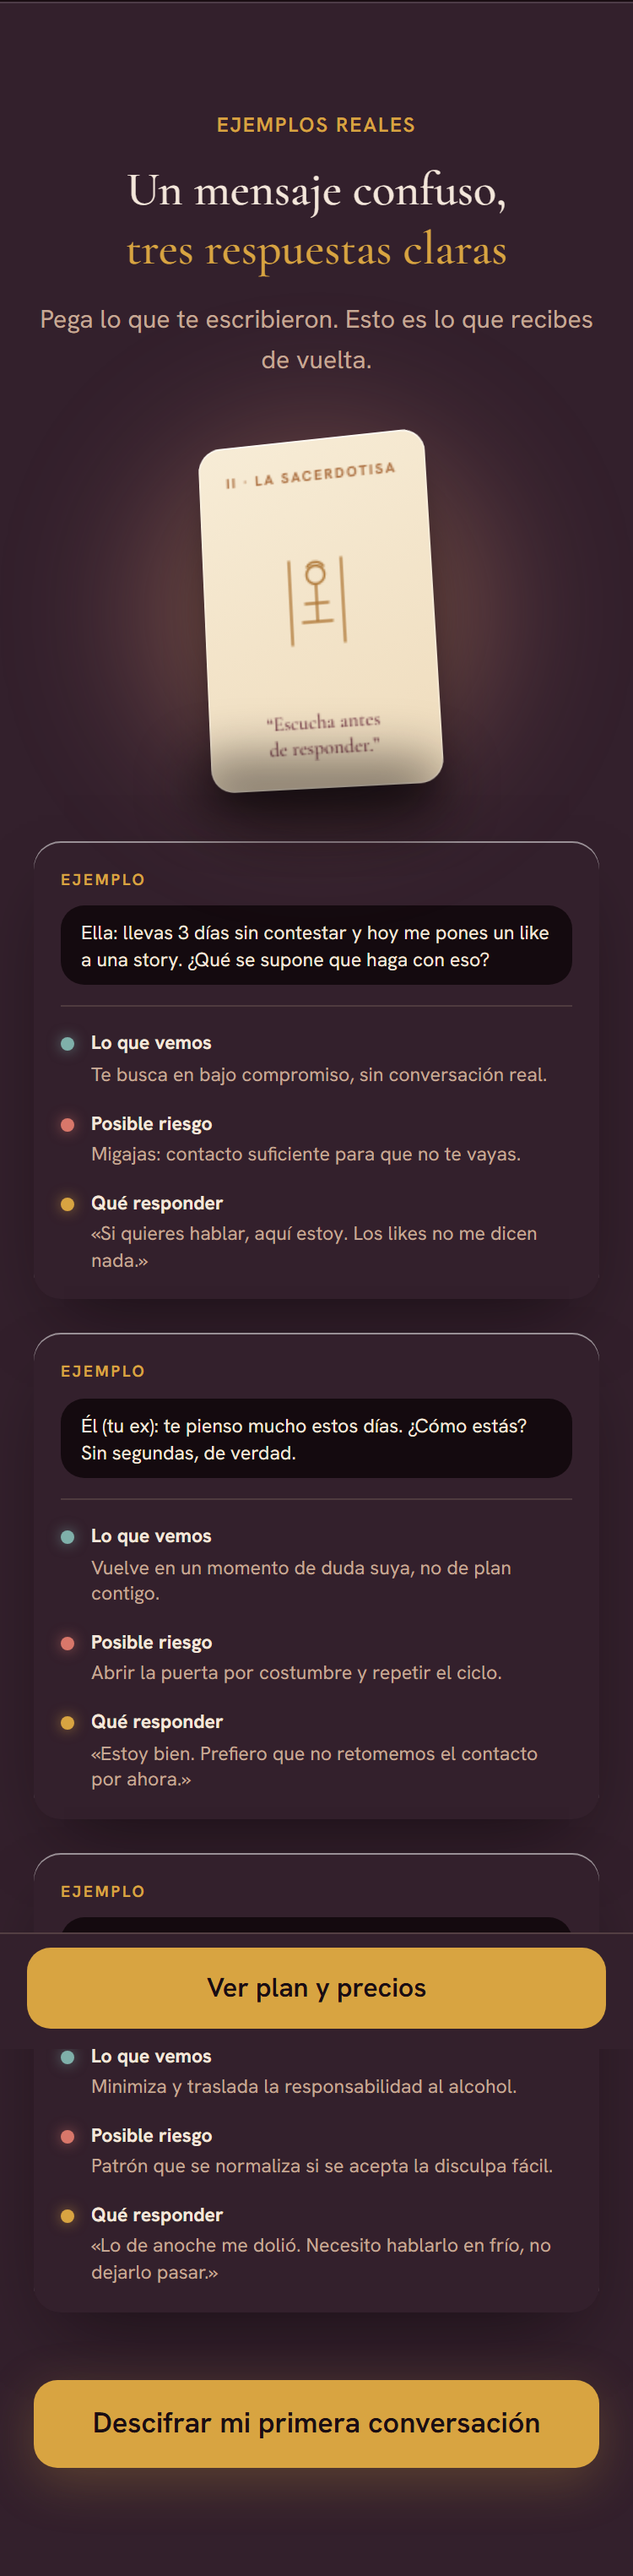
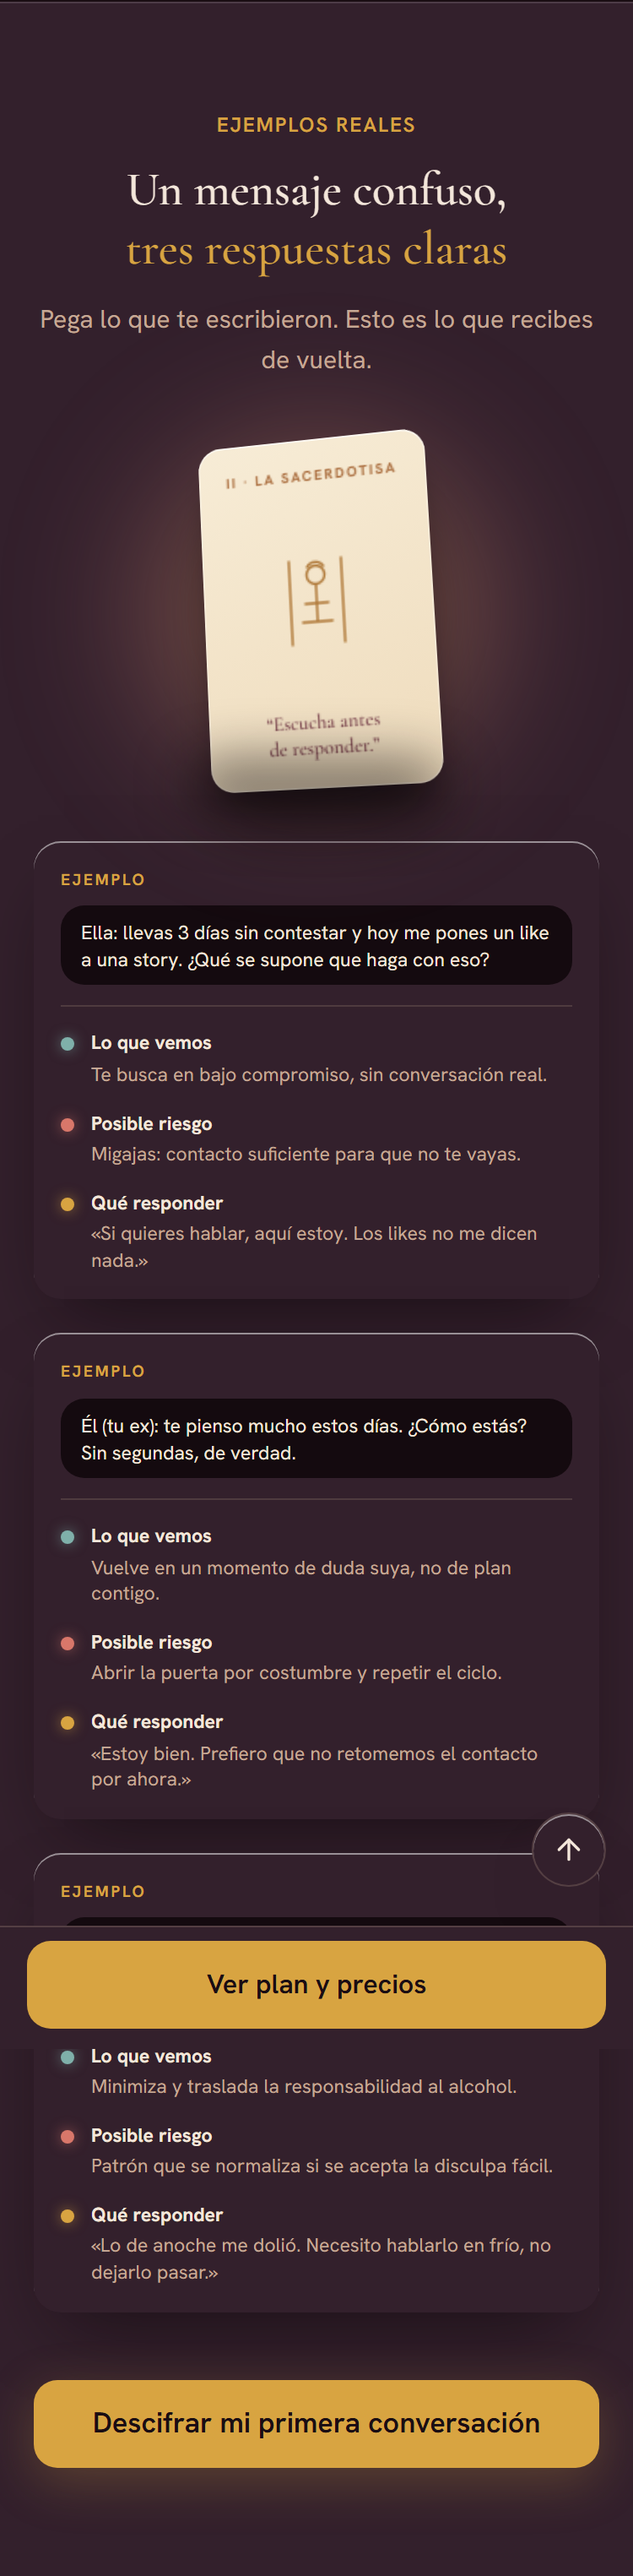
fix(sesion-3): landing — corrige 4 de 5 defectos de la 3a revision del revisor-visual
- StickyCtaMobile: 48px -> 52px (unifica con el resto de CTAs)
- Header "Entrar": agrega hover/focus-visible
- Garantia: nombre propio "la Garantia de Calma de 7 Dias"
- Agrega BackToTop: boton flotante "volver arriba" tras salir del hero
  (defecto de navegacion en el scroll largo de ~21 pantallas a 375px)

Changed region(s): [[0.0307, 0.7475, 0.9507, 0.7787]]

diff --git a/components/landing/ui.tsx b/components/landing/ui.tsx
@@ -8,7 +8,7 @@
 
 import { useEffect, useState, type ReactNode } from 'react';
 import { AnimatePresence, motion, useReducedMotion, type Variants } from 'motion/react';
-import { Check } from 'lucide-react';
+import { ArrowUp, Check } from 'lucide-react';
 import type { LucideIcon } from 'lucide-react';
 
 /* ── <Accent> — la palabra que vende, en el acento del kit ─────────────────── */
@@ -244,11 +244,54 @@ export function StickyCtaMobile({
           <motion.a
             whileTap={{ scale: 0.97 }}
             href={ofertaVista ? href : `#${ofertaId}`}
-            className="flex h-12 w-full items-center justify-center rounded-[var(--radius-button)] bg-[var(--accent)] text-[16px] font-semibold text-[var(--bg)] [touch-action:manipulation]"
+            className="flex h-[52px] w-full items-center justify-center rounded-[var(--radius-button)] bg-[var(--accent)] text-[16px] font-semibold text-[var(--bg)] [touch-action:manipulation]"
           >
             {ofertaVista ? labelComercial : labelPre}
           </motion.a>
         </motion.div>
+      )}
+    </AnimatePresence>
+  );
+}
+
+/* ── <BackToTop> — botón flotante circular que aparece tras salir del hero
+   (revisor-visual, defecto #1: ~21 pantallas de scroll a 375px sin forma de
+   volver arriba). Se separa de StickyCtaMobile (bottom-24 en mobile) para no
+   superponerse con su barra. */
+export function BackToTop({ heroId = 'hero' }: { heroId?: string }) {
+  const reduce = useReducedMotion();
+  const [visible, setVisible] = useState(false);
+
+  useEffect(() => {
+    const el = document.getElementById(heroId);
+    if (!el) return;
+    const io = new IntersectionObserver(
+      (entries) => {
+        const e = entries[0];
+        if (e) setVisible(!e.isIntersecting);
+      },
+      { threshold: 0 }
+    );
+    io.observe(el);
+    return () => io.disconnect();
+  }, [heroId]);
+
+  return (
+    <AnimatePresence>
+      {visible && (
+        <motion.button
+          type="button"
+          aria-label="Volver arriba"
+          onClick={() => window.scrollTo({ top: 0, behavior: reduce ? 'auto' : 'smooth' })}
+          whileTap={{ scale: 0.92 }}
+          initial={{ opacity: reduce ? 0 : 0, y: reduce ? 0 : 12 }}
+          animate={{ opacity: 1, y: 0 }}
+          exit={{ opacity: 0, y: reduce ? 0 : 12 }}
+          transition={{ duration: 0.2, ease: [0.16, 1, 0.3, 1] }}
+          className="fixed right-4 bottom-24 z-30 inline-flex size-11 items-center justify-center rounded-full border border-[color-mix(in_oklab,var(--text-tertiary)_25%,transparent)] bg-[var(--surface)] text-[var(--text-primary)] shadow-[var(--shadow-card)] [touch-action:manipulation] md:right-6 md:bottom-6"
+        >
+          <ArrowUp size={20} strokeWidth={2} aria-hidden="true" />
+        </motion.button>
       )}
     </AnimatePresence>
   );

diff --git a/app/page.tsx b/app/page.tsx
@@ -18,7 +18,7 @@ import { Garantia } from '@/components/landing/Garantia';
 import { Faq } from '@/components/landing/Faq';
 import { CtaFinal } from '@/components/landing/CtaFinal';
 import { FooterLegal } from '@/components/landing/FooterLegal';
-import { StickyCtaMobile } from '@/components/landing/ui';
+import { BackToTop, StickyCtaMobile } from '@/components/landing/ui';
 
 const CTA_HREF = '/onboarding';
 const CTA_LABEL = 'Descifrar mi primera conversación';
@@ -137,7 +137,7 @@ export default function LandingLuma() {
 
       {/* 7 · GARANTÍA — FICHA-MERCADO §4: garantía 7 días > prueba 3 días */}
       <Garantia
-        nombre="Empieza gratis, sin riesgo"
+        nombre="la Garantía de Calma de 7 Días"
         condicionMarked="Pruebas [b]3 días gratis[/b]: si LUMA no te da calma, no pagas nada. Y si pagas y no era para ti, tienes [b]7 días[/b] para el reembolso completo."
         pisoLegal="Respaldada por la garantía de Hotmart"
       />
@@ -197,6 +197,7 @@ export default function LandingLuma() {
       />
 
       <StickyCtaMobile labelComercial={CTA_LABEL} href={CTA_HREF} />
+      <BackToTop />
     </div>
   );
 }

diff --git a/components/landing/Hero.tsx b/components/landing/Hero.tsx
@@ -74,7 +74,10 @@ export function Hero({
             {appName}
           </a>
           {loginHref && (
-            <a href={loginHref} className="px-2 py-3 text-[14px] font-medium text-[var(--text-tertiary)]">
+            <a
+              href={loginHref}
+              className="rounded-[4px] px-2 py-3 text-[14px] font-medium text-[var(--text-tertiary)] transition-colors duration-150 hover:text-[var(--text-secondary)] focus-visible:text-[var(--accent)] focus-visible:outline-none focus-visible:ring-2 focus-visible:ring-[var(--accent)]"
+            >
               {loginLabel}
             </a>
           )}

diff --git a/docs/revisiones/landing-veredicto.md b/docs/revisiones/landing-veredicto.md
@@ -1,95 +1,14 @@
 # VEREDICTO revisor-visual — landing
-Fecha: 2026-09-10 18:20
+Fecha: 2026-09-11 00:00
 Screenshot: docs/revisiones/landing-375.png
-Usabilidad: 31/40
-Craft: 15/20
-Copy (si vende): 15/20
+Usabilidad: 32/40
+Craft: 19/20
+Copy (si vende): 18/20
 Fidelidad (si hubo referencia): N-A
 Veredicto: NO LISTA
-Top defectos: 1) Prueba insuficiente para audiencia escéptica: el carrusel "Así se ve por dentro" son 5 chasis vacíos y el único activo persuasivo es un demo con UN caso elegido a mano; sin testimonios (esperable) ni segundos casos. 2) Fractura de mensaje: hero + demo venden 100% "descifrador de chats"; oferta y FAQ introducen tarotista/coach/tiradas/diario que el hero nunca prepara. 3) La carta de pergamino (única pieza ownable) aparece una sola vez y SIN su reveal firma de FICHA-ARTE (resplandor + ascenso/rotación); HeroDemoLuma no tiene ninguna animación; el rasgo no se repite. 4) Rim highlight a rgb(255 255 255/.07) cuando FICHA-ARTE pide /.5: la "luz de vela" del borde elevado es casi invisible y la alternancia base/elevada sigue muy sutil a 375px. 5) Etiqueta del CTA primario en 4 variantes + 4 tamaños de chip conviviendo.
-
----
-
-## FORMATO DE SALIDA
-
-VEREDICTO: NO LISTA
-USABILIDAD: 31/40  (detalle: h1:3 h2:4 h3:3 h4:3 h5:3 h6:3 h7:3 h8:3 h9:3 h10:3)
-CRAFT:      15/20  (detalle: jerarquía:3 profundidad:3 identidad:3 movimiento:3 encaje:3)
-COPY:       15/20  (detalle: idea:3 especificidad:3 emoción:3 oferta:3 acción:3)
-FIDELIDAD:  N/A (propuesta propia dirección A "Terciopelo & Oro" — sin referencia vigente; no se aplica test de fidelidad)
-
-GATE: falla los tres umbrales por poco — usabilidad 31 < 36, craft 15 < 16, copy 15 < 16. Ningún eje de copy ≤2.
-DELTA vs revisión anterior: usabilidad 29→31 · craft 10→15 · copy 14→15. Los 5 arreglos aterrizaron; el craft sube fuerte (se resolvió el vacío de ~9.000px y entró un dispositivo ownable). Sigue NO LISTA: la pantalla del dinero aún no tiene prueba real ni un mensaje único coherente, y la usabilidad queda 5 puntos corta.
-
-### Verificación de los 5 cambios declarados
-1. Reveal por mejora progresiva — VERIFICADO en código (useReveal: estado `armado` con setTimeout 60ms; `oculto` = {opacity:1} hasta armar; VIEWPORT_ONCE amount 0) y en el screenshot full-page: Oferta, Garantía, FAQ y CTA final ahora RENDERIZAN. Defecto #1 anterior: RESUELTO. Reparo menor: hay un posible flash (contenido visible → a 60ms las secciones bajo el fold saltan a opacity:0 → reaniman al entrar) — no visible en screenshot, severidad baja.
-2. Visual del hero real — VERIFICADO (components/app/HeroDemoLuma.tsx): carta de pergamino que flota (box-shadow en capas + sombra de contacto elíptica + resplandor ámbar radial + rotateX/Y) y demo estática rotulada "EJEMPLO": mensaje → "Lo que vemos" / "Posible riesgo" / "Qué responder" con íconos Lucide (Eye/AlertTriangle/MessageSquare), cero emojis. Defecto #2 anterior: RESUELTO.
-3. Profundidad — VERIFICADO: --rim en tokens.css, aplicado vía SectionShell (`shadow-[var(--rim)]`) y --shadow-card; --surface separado (#241019 → #2c1a25); blooms cálidos en app/globals.css (radial #6d2f3e / #4a2233 al 55%, background-attachment fixed). PARCIAL: el rim se implementó a .07 de alfa, muy por debajo del .5 que especifica FICHA-ARTE §brand kit — ver defecto 4.
-4. Reverso de riesgo con jerarquía — VERIFICADO (page.tsx §7 + docs/copy/landing.md): la Garantía lidera con "Pruebas 3 días gratis: si LUMA no te da calma, no pagas nada" y el reembolso de 7 días queda como respaldo secundario en la misma frase. MEJORADO. Residuo: el badge "3 días gratis" sigue en AMBAS cards de plan y el FAQ repite las dos ventanas — el lector aún procesa dos plazos.
-5. Kickers + escena insignia — VERIFICADO: kickers "Cómo funciona" / "Tu plan" / "Por dentro" (antes "EL MECANISMO" / "LA OFERTA"); Agitación restaura "Son las 23:00 y sigues en la cama releyendo la conversación por décima vez, con el estómago apretado" (casi verbatim de FICHA-AVATAR "MOMENTO DEL DÍA"). RESUELTO.
-
-### Gate de carga cognitiva — PASA
-Sin sobrecarga: 4 preguntas, 3 pasos, 5 features/plan, 2 planes, 5 FAQ, 5 frames. 1 acción primaria repetida. Nada que memorizar. Texto por bloque ≤3-4 líneas (warnCopy ejecutable en el kit). "Qué sigue" siempre obvio. Único punto: el CTA primario apunta a /onboarding (404 hoy) — el parent lo declara esperable en esta etapa; no se cuenta como falla de gate, pero mantiene h1/h5 lejos de 4.
-
-### CTA héroe vivo — CUMPLE los 4
-- Contraste oro #d8a441 sobre #1a0d13 ≈ 8:1 (≥3:1). Texto --bg sobre oro ≈ 8:1. OK
-- whileTap scale 0.97 + hover:bg color-mix + transition-colors 150ms. OK
-- `<motion.a>` siempre habilitado, nunca disabled. OK
-- h-[52px] (hero) / h-14 (CTA final) + w-full en mobile + touch-action:manipulation. OK
-Único reparo: destino /onboarding inexistente (esperado esta etapa).
-
-### Anclas de conversión
-- Titular con énfasis: "Entiende" en oro dentro de serif bold (Cormorant). OK
-- ≥1 hairline degradé + chips SVG sin emojis: `<Hairline>` (padding-box/border-box) en chip del mecanismo, garantía y plan anual; `<IconChip>`/`<CheckCustom>` = Lucide SVG; CERO emojis en la landing (la decisión emoji-como-íconos de FICHA-ARTE es solo para la app interna). OK
-- Secciones adyacentes distinguibles: alternancia base #1a0d13 / elevada #2c1a25 + rim + shadow-card; más separadas que antes pero aún sutiles a 375px sobre paleta oscura. Borderline (no baja el eje 2, pero ver defecto 4).
-- Sub-check garantía nombrada (binario): PASA — "Empieza gratis, sin riesgo" con plazos (3 días / 7 días) junto a la oferta y repetida en el PS. El "nombre" es genérico (no una garantía bautizada distintiva), pero cumple el binario.
-- Sub-check message-match (binario): NO VERIFICABLE — sin dato de creativo/anuncio de origen (archivo 34).
-
----
-
-## TOP DEFECTOS
-
-1. [Sección "Así se ve por dentro" + prueba global] La única evidencia para una audiencia que "ya probó apps así y las abandonó" (FICHA-AVATAR, consciencia 3-4) es UN caso de demo elegido a mano y no interactivo; el carrusel son 5 chasis de teléfono vacíos con nombre de pantalla y no hay testimonios (honesto: no existen aún). El eje que la ficha marca como decisivo —DEMO del mecanismo— está apenas cubierto. → Fix: donde hoy está el carrusel de placeholders, poner 2-3 mini-casos "mensaje real → Lo que vemos / Posible riesgo / Qué responder" (estáticos y rotulados), o mover ahí el demo del hero y ampliarlo a varias situaciones.
-
-2. [Hero + demo vs Oferta/FAQ] El hero y el "EJEMPLO" venden 100% "descifrador de chats de WhatsApp"; la oferta ("Chat con LUMA, tu tarotista y coach", "Tiradas de tarot leídas para tu caso", "Diario emocional") y el FAQ (preguntas de tarot) introducen un segundo producto que el hero nunca prepara. Se lee como dos apps. → Fix: puente en el subtítulo o un kicker del hero que nombre el marco completo (tarot + coach) y una línea en Solución que conecte descifrar → carta / coach / diario.
-
-3. [Identidad + movimiento — carta de pergamino] El dispositivo ownable de FICHA-ARTE aparece UNA sola vez (hero) y SIN su reveal firma ("la carta se revela con resplandor ámbar + leve ascenso y rotación −3°→0°"): entra con el fade plano de 0.3s del bloque hero, y HeroDemoLuma no tiene ninguna animación. El rasgo no se repite en ninguna otra sección. Queda oscuro + un oro + Cormorant Garamond (el serif más usado de la época) → sigue siendo sustituible por otra landing "mística premium". → Fix: animar la carta con su reveal firma al entrar en viewport (con prefers-reduced-motion) y repetir el motivo (la carta o una textura cálida) en Solución u Oferta.
-
-4. [Profundidad — superficies elevadas] El rim highlight está a `inset 0 1px 0 rgb(255 255 255 / 0.07)` cuando FICHA-ARTE §brand kit especifica `/.5`: la "luz de vela" en el borde superior de lo elevado es prácticamente invisible y los 3 niveles de superficie (#1a0d13 / #2c1a25 / #140a0f) apenas se distinguen a 375px sobre la paleta oscura. → Fix: subir el rim hacia el valor de la ficha (probar .18–.5 y elegir por render) y separar un punto más --surface del --bg.
-
-5. [Consistencia h4 / encaje — CTA y chips] El CTA primario cambia de etiqueta en 4 lugares ("Descifrar mi primera conversación" / "Empezar mis 3 días gratis" / "Elegir mensual" / "Ver plan y precios") y conviven 4 tamaños de chip (IconChip 44px · garantía 60px · CheckCustom 22px · chips del demo 28px). → Fix: una sola etiqueta para el CTA primario en hero, carrusel y CTA final; reducir a 2 tamaños de chip como máximo.
-
----
-
-## NOTAS POR RÚBRICA
-
-USABILIDAD (31/40)
-- h1 Estado del sistema (3): el vacío negro tras el carrusel está resuelto (todas las secciones renderizan). Tap 0.97, acordeón con altura animada, carrusel con dots/aria-current, sticky de 2 estados: feedback correcto en todo lo interactivo. No llega a 4: sin count-up en los números de precio y el CTA primario navega a un 404.
-- h2 Lenguaje del usuario (4): copy en el mundo exacto de la avatar y trazado a VoC ("releer", "espiral", "el estómago apretado", "sin cobros por mensaje ni por crédito", "¿otra vez el mismo patrón?"); cero inglés, cero jerga corporativa; kickers ya en lenguaje llano. Las preguntas del FAQ son las objeciones literales de la ficha. Decil superior en este eje.
-- h3 Control y libertad (3): "Entrar" visible, FAQ que colapsa del todo (`setAbierto(null)`), sticky que hace scroll a #oferta antes de saltar al CTA, smooth-scroll con fallback reduced-motion, sin trampas de modal. Suficiente para una landing; no hay nav de secciones para saltar al precio salvo el sticky.
-- h4 Consistencia (3): kit disciplinado (CtaButton, CheckCustom, IconChip, Kicker, Hairline, SectionShell; radios por token 16/14). Restan: 4 etiquetas para el CTA primario, alturas de botón 48/52/56 y 4 tamaños de chip (defecto 5).
-- h5 Prevención de error (3): sin formularios; touch-action:manipulation contra el doble-tap; enlaces del footer a páginas borrador reales. El riesgo vivo: el CTA primario hoy va a 404 (esperado esta etapa).
-- h6 Reconocer vs recordar (3): todo a la vista al hacer scroll; cada card de plan repite sus propias features (no hay que recordar qué trae la anual al leer la mensual). Comparar $5,99 vs $9,99 + total anual pide un beat.
-- h7 Flexibilidad (3): sticky inteligente de 2 estados, anclas con smooth-scroll, FAQ con button real + aria-expanded/aria-controls, dots con aria-label/aria-current, prefers-reduced-motion cableado en todo el kit. Sin aceleradores para experto más allá del sticky; sin count-up.
-- h8 Estético/minimalista (3): estructura canónica de 10 secciones sin duplicar, 1 acción primaria por vista, ritmo 64/96px, acento contenido. Resta: el visual del hero es muy alto en el stack vertical de mobile (carta 208px + resplandor + panel demo ≈ 550px), y los kickers van en versalitas.
-- h9 Errores con solución (3): sin estados de error en una landing estática; el manejo de objeciones (FAQ + garantía + PS) cubre "¿y si no me sirve?" con siguiente paso concreto ("cancelas cuando quieras, sin trámites"), sin códigos técnicos.
-- h10 Ayuda contextual (3): el demo del hero ahora ENSEÑA el mecanismo (mensaje → lectura → riesgo → qué responder), rotulado "EJEMPLO"; FAQ = 5 objeciones reales con la #1 abierta; microcopy bajo cada CTA; garantía nombrada. No llega a 4: la sección "Por dentro" son placeholders con nombre y no enseña.
-
-CRAFT (15/20)
-- Jerarquía (3): al entrecerrar se leen 4 niveles (display serif 40/60px → subtítulo 17px → CTA → microcopy 13px); títulos de sección 30/40px. Tensión: la carta de pergamino en crema es el elemento de mayor contraste del hero y compite con el H1 por la primera fijación de la mirada.
-- Profundidad (3): 3 niveles de superficie + blooms cálidos fixed + sombras tintadas + la carta que flota de verdad (sombra de contacto + resplandor + insets). El rim a .07 (vs .5 de la ficha) y la alternancia base/elevada aún sutil a 375px le quitan el 4 (defecto 4).
-- Identidad (3): entra un dispositivo ownable real (carta de pergamino 3D con su glyph y su cita en serif) + colores propios del analizador; paleta con carácter (vino/cacao, no #000; oro contenido). No es clon de los ejemplos vetados del 53. No llega a 4: el device aparece una sola vez y sin repetición, y Cormorant Garamond + oro sobre oscuro es un kit reconocible del rubro.
-- Movimiento (3): stagger de entrada (0.07), whileTap 0.97, acordeón con altura animada, AnimatePresence en el sticky, prefers-reduced-motion ejemplar. Faltan: count-up en números héroe (hay candidato claro: los precios / "4 meses gratis") y el reveal firma de la carta que pide FICHA-ARTE.
-- Encaje óptico (3): radios estrictamente por token, chips que abrazan su contenido, tabular-nums en todos los números, padding lateral simétrico (px-5), lift deliberado de la card anual. El vacío de ~9.000px que dominaba la vista anterior está resuelto. Restan lupa: 4 tamaños de chip y el stack interno del visual del hero (carta rotada sobre panel ancho) algo forzado en vertical.
-
-COPY (15/20) — vende; FICHA-AVATAR disponible
-- Idea única (3): Big Idea clara ("no piensas de más; nadie te ayudó a separar los hechos de las historias") + mecanismo bautizado ("descifrar la conversación"), desarrollada en Solución. Fractura: el hero prepara solo "descifrador de chats" y la oferta/FAQ suman tarot + coach + diario (defecto 2).
-- Especificidad y prueba (3): sube desde 2 — ya existe el demo del mecanismo (mensaje real → lectura específica → riesgo → qué responder), que es justo lo que pedía la ficha para una audiencia escéptica. Buenos números en la oferta (precio/día, total anual, plazos). Cero claims de ingresos/salud (cumple). Techo: un solo caso, no interactivo; sin testimonios (honesto); carrusel = placeholders.
-- Emoción / dolor real (3): escena insignia restaurada (23:00, en la cama, el estómago apretado), preguntas casi verbatim de los dolores #1-#4, agita antes de resolver, objeción "no me juzguen" atendida. Resta profundidad en el costo futuro: "un mes más de desgaste" es más suave que el material de la ficha ("mandas el mensaje del que te arrepientes", "meses de paz mental", "la relación misma").
-- Claridad de oferta (3): qué recibo (5 features/plan en lenguaje de resultado), cuánto (ambos precios + $/día + total anual), qué me protege (garantía + trial + piso Hotmart + PS). El solapamiento 3 días / 7 días está mejor jerarquizado en la sección Garantía, pero el badge "3 días" sigue en ambas cards y el FAQ repite las dos ventanas: aún pide un beat.
-- Dirección a una acción (3): un CTA primario repetido y en beneficio/1ª persona; secundarios subordinados ("Elegir mensual" outline, "Entrar" terciario). Baja de 4 por las 4 etiquetas distintas del mismo click (defecto 5).
-- Sub-check garantía nombrada: PASA (borderline — nombre genérico). Sub-check message-match: NO VERIFICABLE.
-
-FIDELIDAD: N/A — el parent confirma que la referencia del usuario ya no está vigente (propuesta propia, dirección A "Terciopelo & Oro"). No se aplica test de fidelidad. Sí se anota, como desvío menor respecto a FICHA-ARTE: el rim highlight a .07 vs .5, y la escala tipográfica de la landing (display 40/60px, body 15-17px) corre por encima de la escala de la ficha (display ~26-30px, body ~13-14px) — defendible para una landing y más accesible, pero es una divergencia con la ficha.
-
-PLACEHOLDERS (evaluados, no penalizados como bug): el del hero quedó sustituido por el visual real; los frames del carrusel (chasis + nombre de pantalla, dashed) están bien resueltos estructuralmente. El reparo no es el placeholder en sí, sino que la sección "Por dentro" no aporta prueba para esta audiencia (defecto 1).
+Top defectos:
+1. [Toda la página, ~21 pantallas de scroll a 375px] Sin tabla de contenidos ni "volver arriba": quien ya vio la oferta y quiere releer el FAQ o los casos solo tiene scroll manual largo → agregar mini-nav de anclas o botón flotante "volver arriba" tras cierto scroll (heurística 7).
+2. [Sección Garantía, tras Oferta] "Empieza gratis, sin riesgo" no es un nombre PROPIO de garantía (el propio componente Garantia.tsx lo pide así) — sub-check "garantía nombrada" queda débil → renombrar a algo memorable tipo "Garantía de Calma de 7 Días" manteniendo la condición actual.
+3. [StickyCtaMobile, barra fija inferior] Altura 48px (h-12) vs CtaButton estándar 52-56px en el resto de la página — un ojo entrenado nota el CTA fijo más liviano que los demás → unificar a 52px o documentar la excepción de espacio.
+4. [Sección "Ejemplos reales" + hero] Los 4 casos mostrados (hero + 3 de Casos) siguen siendo demos rotuladas "EJEMPLO", sin ningún testimonio o dato real de usuarias todavía — para una avatar escéptica (consciencia 3-4 según FICHA-AVATAR) sigue siendo el punto más débil de especificidad/prueba, aunque ya resuelve el defecto anterior del carrusel vacío → acelerar las 5-10 entrevistas de docs/investigacion/guia-entrevistas-avatar.md para sumar 1-2 citas reales antes del lanzamiento.
+5. [Header, "Entrar"] Enlace terciario sin estado hover/focus definido (a diferencia del resto de interactivos, que sí tienen whileTap/hover) → agregar transición de color en hover/focus-visible.

diff --git a/docs/copy/landing.md b/docs/copy/landing.md
@@ -48,7 +48,7 @@
 - **Trial:** 3 días gratis (02C)
 
 ## 7 · GARANTÍA  (condición ≤30 palabras — FICHA-MERCADO §4: garantía 7 días > prueba 3 días)
-Si tras el primer cobro sientes que LUMA no es para ti, tienes [b]7 días[/b] para pedir el reembolso completo. Sin explicaciones.
+Empiezas con 3 días gratis. Si LUMA no te da calma, no pagas nada. Y si pagas y no era para ti, la [b]Garantía de Calma de 7 Días[/b] te da el reembolso completo.
 
 ## 8 · FAQ  (4-6 ítems, respuesta ≤40 palabras — objeciones reales de FICHA-AVATAR)
 - **P: ¿Es un chatbot genérico que responde lo mismo a todo el mundo?**
